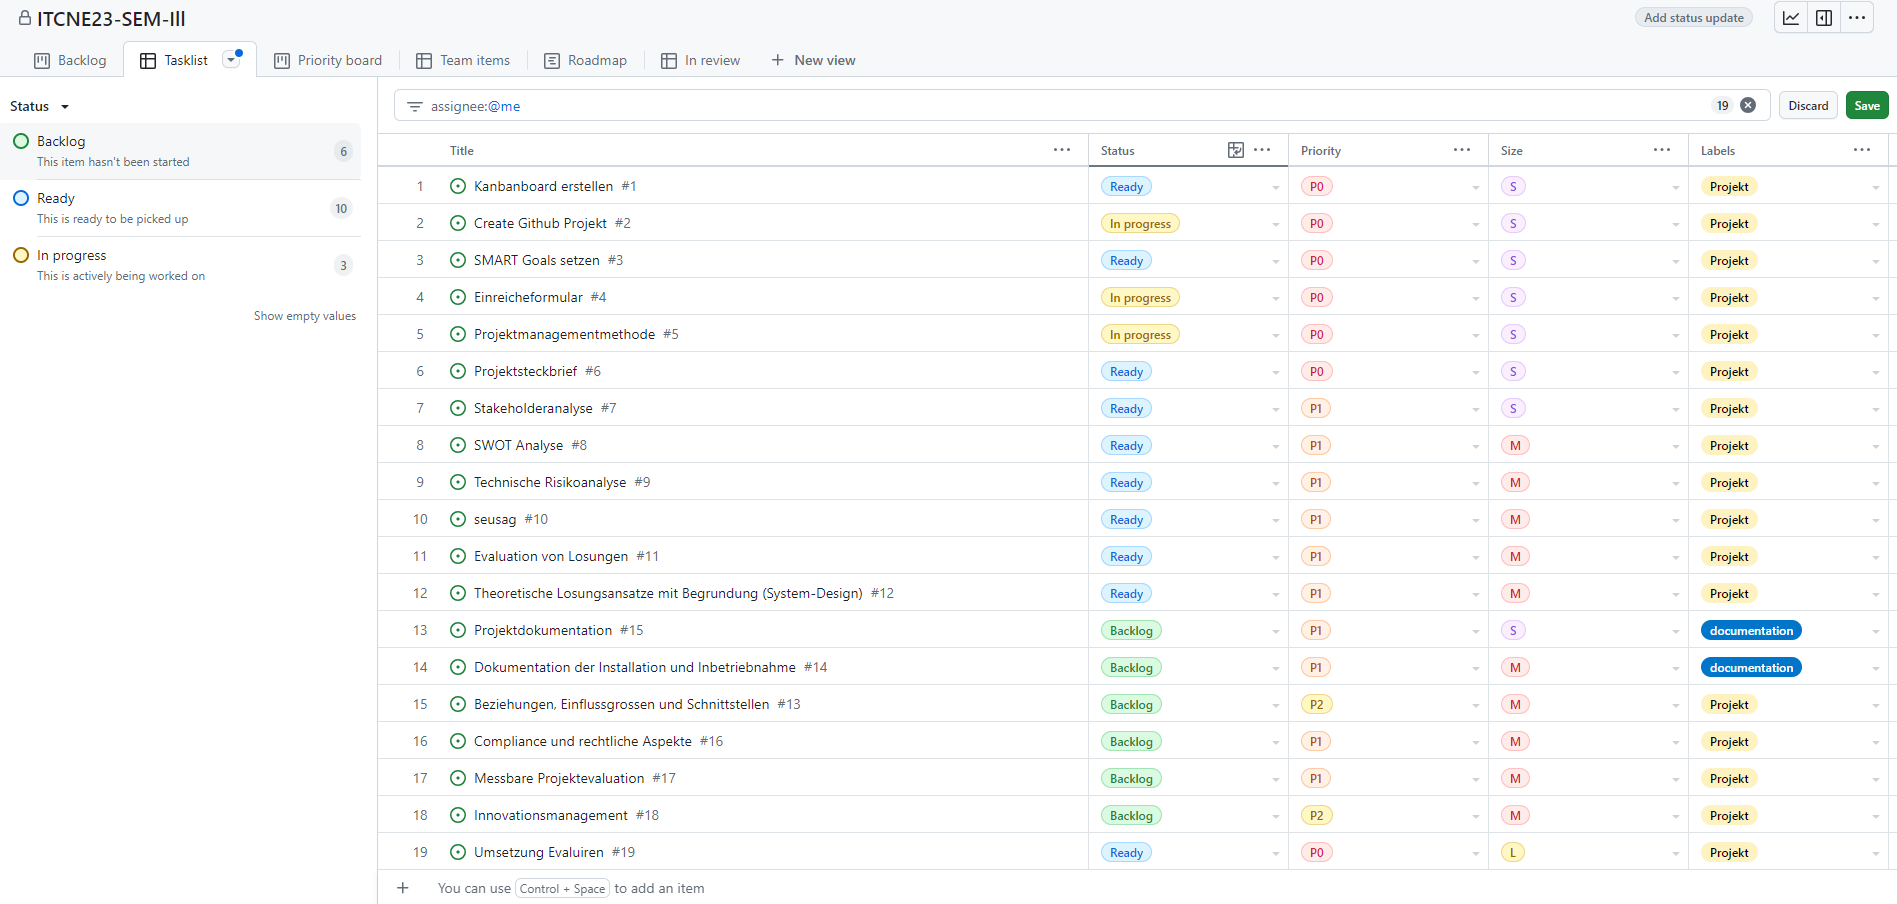
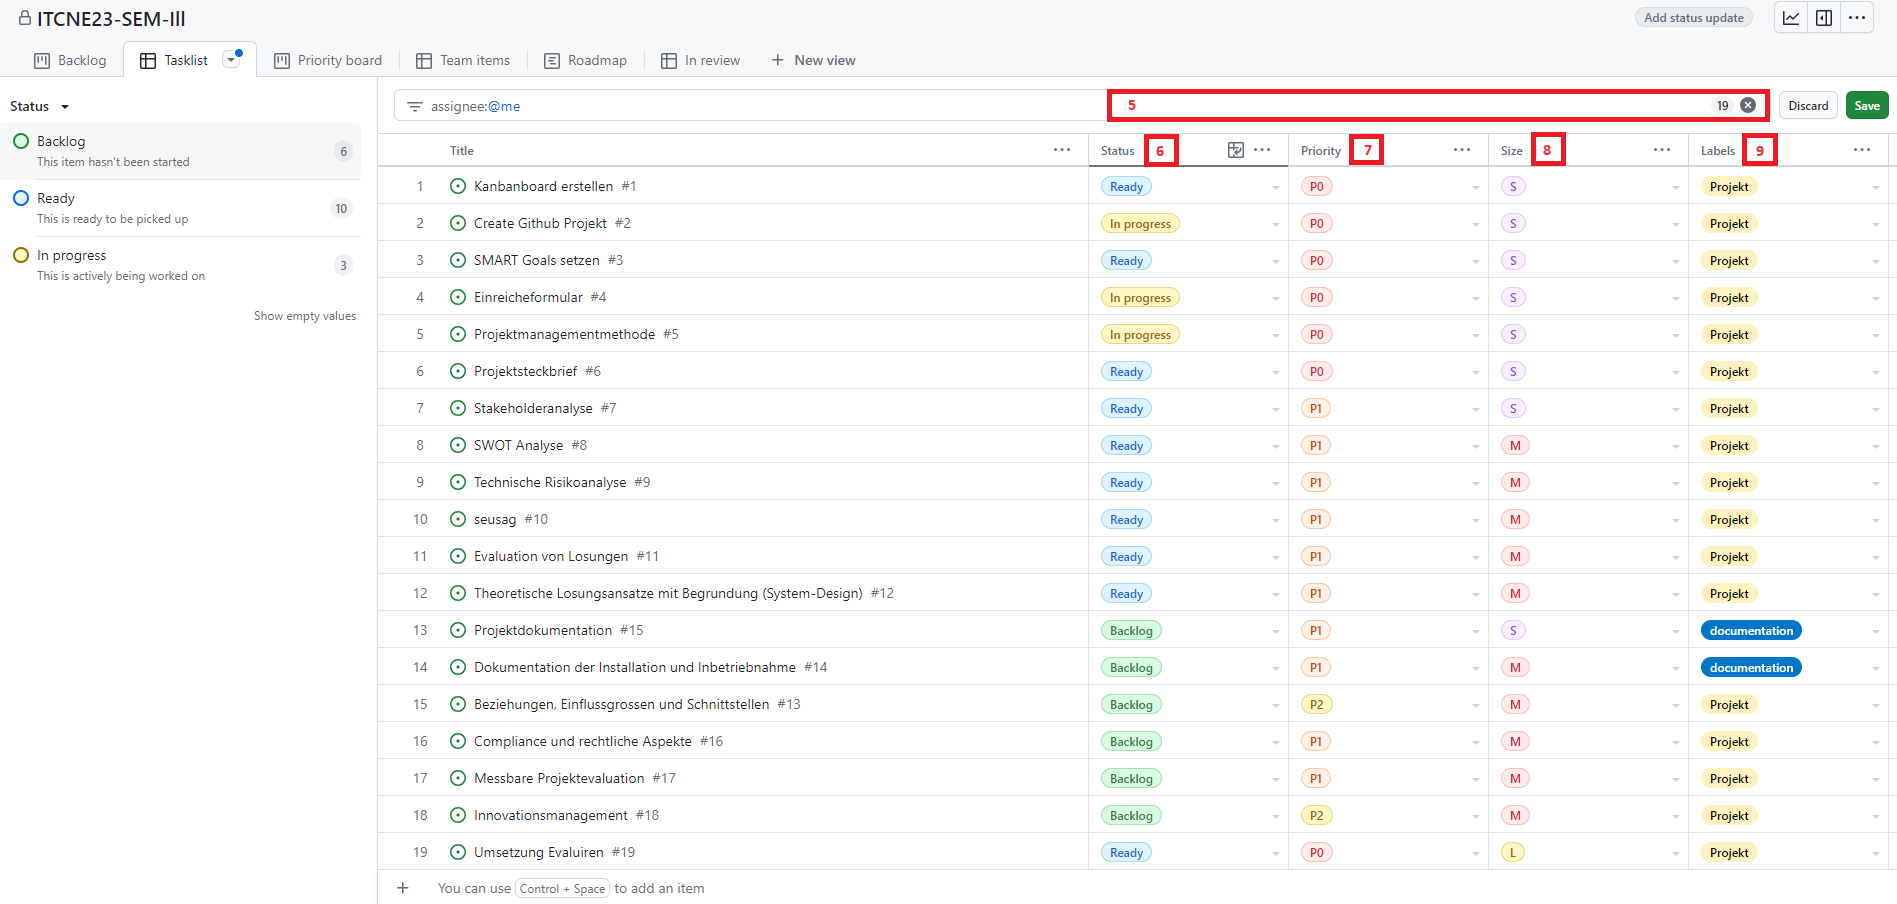
kanban

Changed region(s): [[0.5909, 0.0929, 0.9331, 0.1858]]

diff --git a/docs/01_Start/Projektmanagementmethode.md b/docs/01_Start/Projektmanagementmethode.md
@@ -3,7 +3,12 @@ layout: default
 #layout: minimal
 title: Projektmanagementmethode
 parent: Start
-nav_order: 1
+nav_order: 2
+# Wie kann ich einen Kommentar in Markdown einfügen? <!-- Dies ist ein Kommentar, der nicht angezeigt wird -->
+# Taskliste zu Taskleiste umbennenen und nach Roadmap verschieben
+# Print Screen von Kanbanboard mit den einzelnen Registern
+# Team Items entfernen?
+# Priority Board beschrieben
 ---
 
 ## Projektmanagementmethode
@@ -14,26 +19,75 @@ Die Arbeit wird in mehrere Issues unterteilt, wodurch der Fortschritt nachvollzo
 
 Für das Gesamtprojektmanagement wird ([Github Project](https://github.com/users/danyambuehl/projects/3)) verwendet. Diese Plattform erleichtert die Zusammenarbeit und Nachverfolgung von Änderungen und sorgt für eine zentrale Verwaltung von Aufgaben, Diskussionen und Ressourcen.
 
-## Kanbanboard
+![Kanban Board](/docs/img/kanban-board.png)
+
+## Kanban-Board [^1]
 
 Das Kanban-Board bildet das Herzstück des Projektmanagements und bietet eine visuelle Übersicht aller Arbeitsprozesse, hilft Arbeitseffizienz zu erhöhen und Engpässe frühzeitig zu identifizieren. Dadurch ermöglicht es eine Anpassung an sich verändernde Anforderungen während des gesamten Projektablaufs.
 
-## Roadmap
+## Roadmap [^2]
 
 Eine ausgearbeitete Roadmap dient als Leitfaden für die strategische Planung und Kontrolle der Arbeit. Sie enthält wichtige Meilensteine, die auf die einzelnen Sprints ausgerichtet sind, und dient als Orientierungshilfe für die Fortschrittsverfolgung und den erfolgreichen Abschluss der einzelnen Projektphasen.
 
-## Taskliste
+## Taskleiste [^3]
 
-Zur Verbesserung der Verwaltung und Organisation von Aufgaben wird eine neue Taskliste eingeführt. Diese Taskliste soll dazu dienen, Aufgaben zu erfassen, sie nach verschiedenen Kategorien zu filtern und zu gruppieren. Das Ziel besteht darin, eine bessere Übersicht und Strukturierung im Projektmanagement zu erreichen.
+Zur Verbesserung der Verwaltung und Organisation von Aufgaben wird eine neue Taskleiste eingeführt. Diese Taskleiste soll dazu dienen, Aufgaben zu erfassen, sie nach verschiedenen Kategorien zu filtern und zu gruppieren. Das Ziel besteht darin, eine bessere Übersicht und Strukturierung im Projektmanagement zu erreichen.
 
 Die neue Aufgabenliste wird so konzipiert, dass jeder einzelne Task mit spezifischen Metadaten versehen werden kann. Dadurch wird eine einfache Zuordnung zu bestimmten Kategorien ermöglicht.
 
-### Tasklist Kategorien
+## Priority Board [^4]
+
+Das Priority Board dient zur Priorisierung der Aufgaben und hilft, die wichtigsten und dringendsten Aufgaben zu identifizieren. Es ermöglicht eine klare Zuordnung von Aufgaben nach ihrer Wichtigkeit und Dringlichkeit und erleichtert die Planung und Umsetzung der Arbeitsprozesse.
+
+![Kanban Board](/docs/img/tasklist.png)
+
+### Task Kategorien [^5]
 
 - Status
 - Priorität
 - Grösse
 - Label
 
+### Task Status [^6]
 
-![Kanban Board](/docs/img/tasklist.png)
+Das Kanban-Board wir in 5 Spalten aufgeteilt.
+
+- Backlog
+- Ready
+- In Progress
+- In Review
+- Done
+
+### Task Priorität [^7]
+
+Es wird zwischen drei Prioritäten unterschieden nach folgender Reihenfolge.
+
+- P0
+- P1
+- P2
+
+### Task Size [^8]
+
+Der geschätzte Aufwand für einen Task wird mit folgenden angegeben.
+
+- S
+- M
+- L
+
+### Task Labels [^9]
+
+Es werden folgende Labels verwendet um die Tasks nach Themen zu gruppieren.
+
+- Dokumentation --> Task für die Dokumentation
+- Projekt --> Task für Projekt Planung
+- App --> Task für die App Entwicklung
+
+[^1]: Kanban-Board [Retrieved from](/docs/img/tasklist.png)
+[^2]: Task Kategorien [Retrieved from](/docs/img/tasklist.png)
+[^3]: Task Kategorien [Retrieved from](/docs/img/tasklist.png)
+[^4]: Task Kategorien [Retrieved from](/docs/img/tasklist.png)
+[^5]: Task Kategorien [Retrieved from](/docs/img/tasklist.png)
+[^6]: Task Status [Retrieved from](/docs/img/tasklist.png)
+[^7]: Task Priorität [Retrieved from](/docs/img/tasklist.png)
+[^8]: Task Size [Retrieved from](/docs/img/tasklist.png)
+[^9]: Task Labels [Retrieved from](/docs/img/tasklist.png)

diff --git a/docs/01_Start/smartziele.md b/docs/01_Start/smartziele.md
@@ -1,0 +1,32 @@
+---
+layout: default             #layout: minimal
+title: Smart Ziele
+nav_order: 4
+parent: Start
+# Referenz nachtragen
+# Weitere vorteile einer REST-API
+---
+
+## SMART-Ziele [^1]
+
+| **Spezifisch**               | **Messbar**              | **Erreichbar**      | **Relevant**              | **Zeitgebunden**      |
+|------------------------------|--------------------------|---------------------|---------------            | --------------        |
+| Klar definierte und präzise  | Quantifizierbare Aspekte | Realistische  Ziele | Bedeutung für das Projekt | klaren Zeitrahmens    |
+
+### Verfügbaren Genossenschaftswohnungen informiert werden
+
+Entwicklung eines Tools, mit dessen Hilfe interessierte Personen innerhalb von zwei Monaten nach Projektbeginn effektiv über verfügbaren Genossenschaftswohnungen informiert werden.
+
+### Verschiedene Baugenossenschaften
+
+Am ende des Projektes werden mindestens bereits vier verschiedene Baugenossenschaften aus dem Raum Zürich zur Verfügung stehen.
+
+### Verwendung von REST-API
+
+Implementierung einer REST-API und Microservices-Architektur innerhalb des ersten Monates nach Projektstart, um den Service flexibel und skalierbar zu gestalten.
+
+### Smartphone-Benachrichtigungsfunktion
+
+Das System muss so konzipiert werden, dass es eine Smartphone-Benachrichtigungsfunktion unterstützt und nahtlos integriert.
+
+[^1]: SMART-Ziele [Retrieved from](/docs/img/tasklist.png)

diff --git a/docs/01_Start/Projektsteckbrief.md b/docs/01_Start/Projektsteckbrief.md
@@ -4,8 +4,11 @@ layout: default
 title: Projektsteckbrief
 parent: Start
 nav_order: 1
+# Vielleicht noch ein Bild oder Symbol hinzufügen?
 ---
 
 ## Projektsteckbrief
 
-"In meiner Semesterarbeit konzentriere ich mich auf das Thema (Ihr spezifisches Thema). Das Hauptziel dieser Arbeit besteht darin, (Ihr spezifisches Ziel) zu erreichen. Dies werde ich tun, indem ich (Ihren spezifischen Ansatz oder Ihre Methodik) anwende. Durch die Bearbeitung dieses Themas hoffe ich, ein tieferes Verständnis für (das Wissensfeld oder den Anwendungsbereich) zu erlangen und gleichzeitig praktische Fähigkeiten in (relevanten Fähigkeiten) zu entwickeln."
+In meiner Semesterarbeit konzentriere ich mich auf das aktuelle Problem, bezahlbaren Wohnraum in Zürich zu finden. Das Hauptziel dieser Arbeit besteht darin, den Zugang zu freien Genossenschaftswohnungen effizienter zu gestalten.
+
+Dies werde ich tun, indem ich das Problem aus der Perspektive eines Informatikers angehe und mit Hilfe moderner Technologien ein Tool Entwickle mit dem interessierte Personen effektiv über verfügbaren Genossenschaftswohnungen informiert werden. Durch die Bearbeitung dieses Themas hoffe ich, ein tieferes Verständnis für Microservices mit Python zu erlangen und gleichzeitig praktische Fähigkeiten in der Implementierung einer REST-API zu entwickeln."

diff --git a/READMEIDEEN.md b/READMEIDEEN.md
@@ -5,8 +5,8 @@
 ## Inhalt
 
 Projektablauf
-Evaluation von Losungen
-Theoretische Losungsansatze mit Begrundung (System-Design)
+Evaluation von Losungen -> Erhebungstechnik -> Umfrag -> uswerten
+Theoretische Losungsansatze mit Begrundung (System-Design) -> Nutzwertanalyce -> WirschaftslichkeitsAnalyze
 Dokumentation der Installation und Inbetriebnahme von Hard- und/oder Software (Beurteilung durch die
 Experten)
 Projektdokumentation

diff --git a/docs/01_Start/projektablauf.md b/docs/01_Start/projektablauf.md
@@ -1,7 +1,8 @@
 ---
 layout: default
 title: Projektablauf
-nav_order: 2
+nav_order: 1
+parent: Start
 ---
 ## Projektablauf
 
